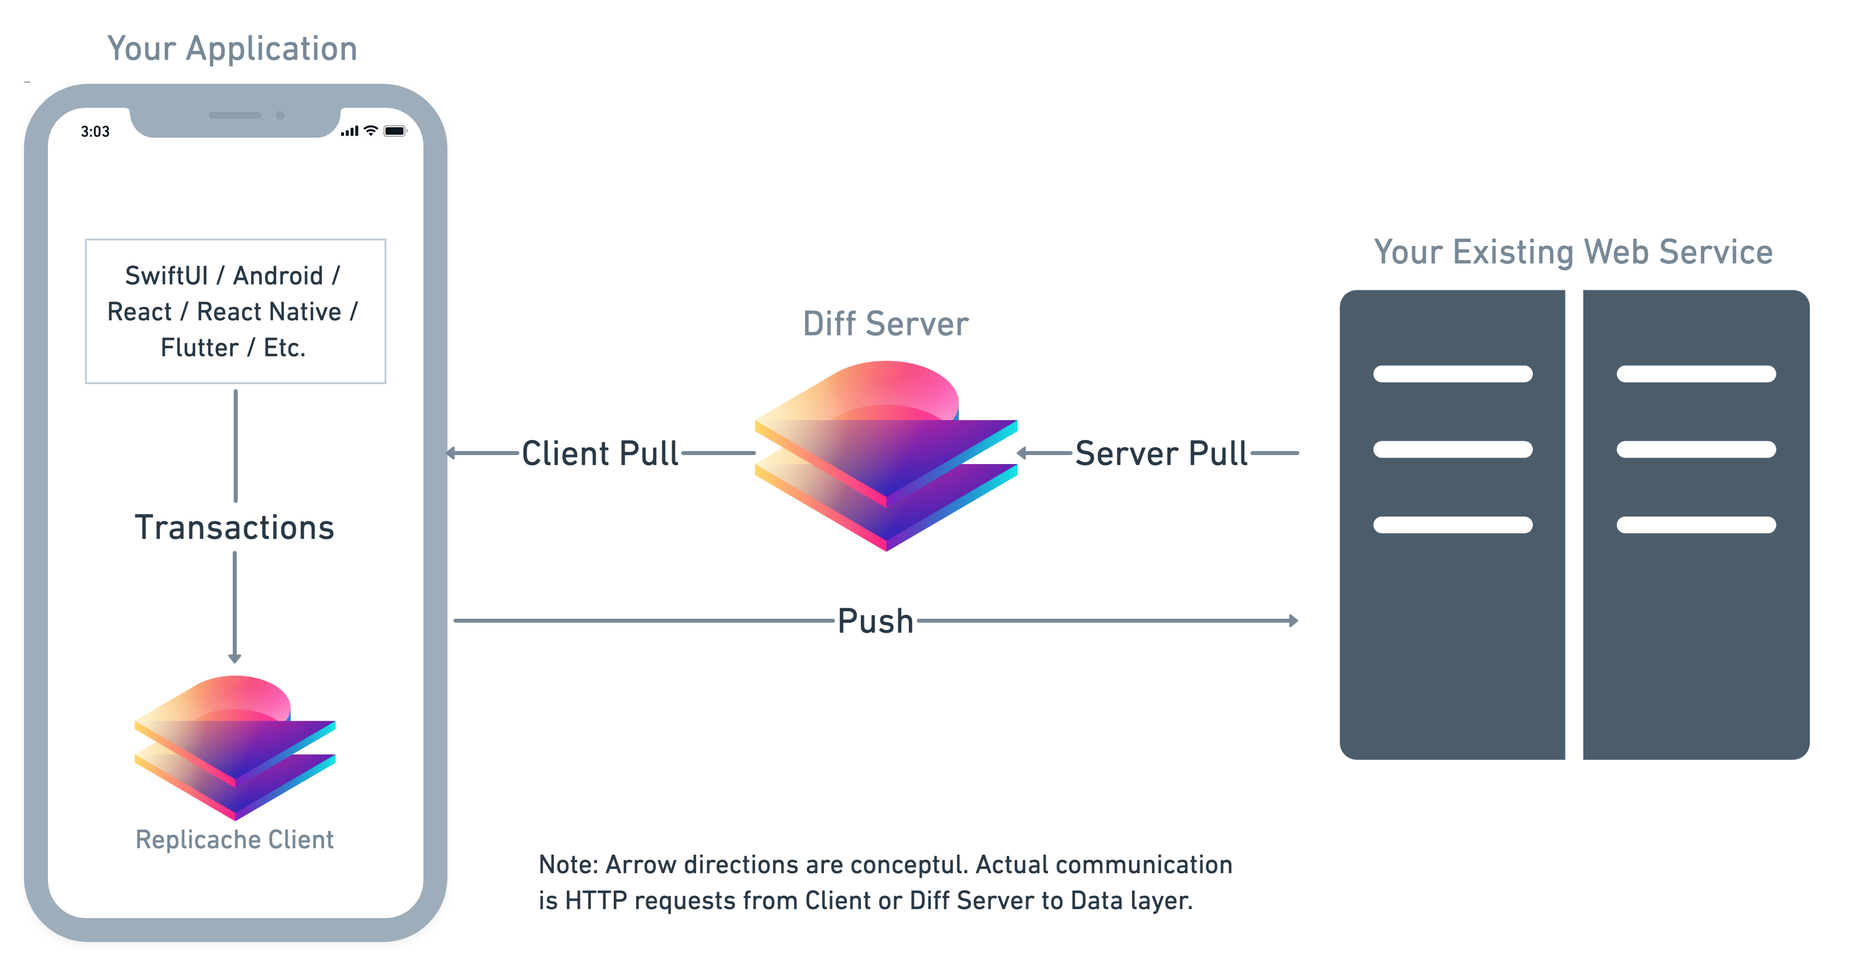
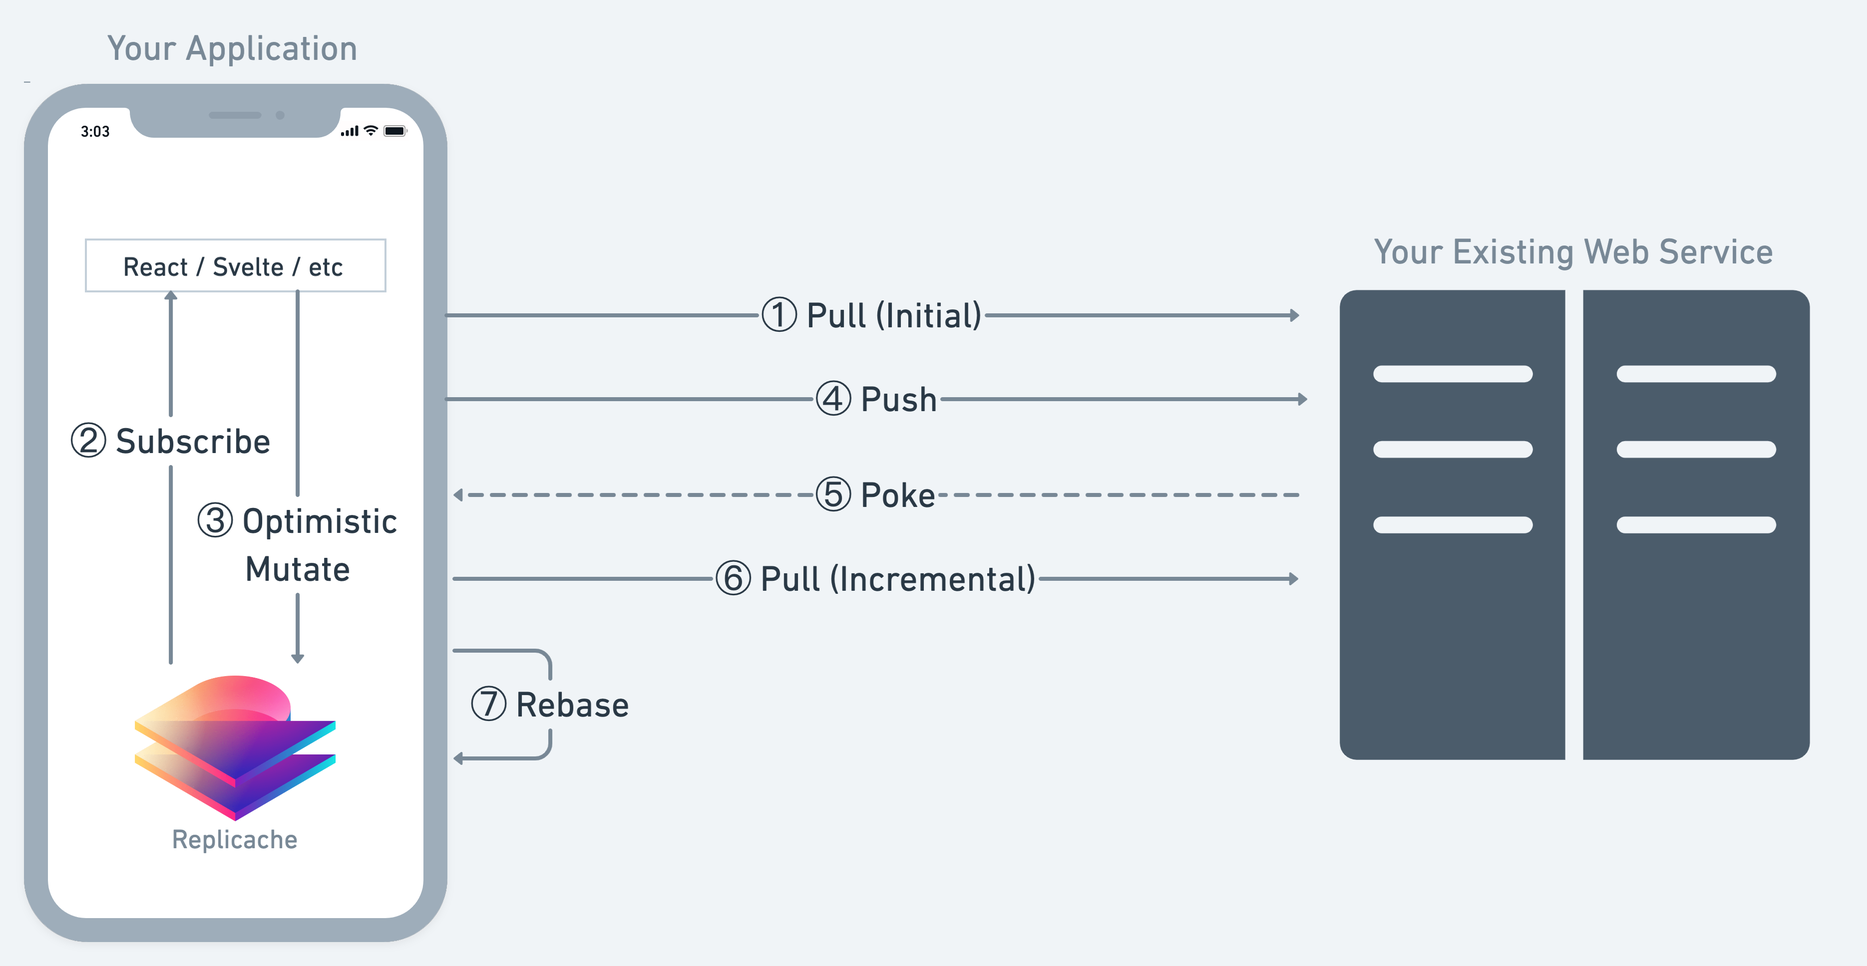
Kill diff server

diff --git a/design.md b/design.md
@@ -26,26 +26,26 @@ succeeded.
 The key features that drive Replicache's increased usability:
 
 * **Easy Integration**: Replicache runs alongside your existing application infrastructure. You keep your existing server-side stack and client-side frameworks. Replicache doesn't take ownership of data, and is not the source of truth. Its only job is to provide bidirectional sync between your clients and your servers. This makes it easy to adopt: you can try it for just a small piece of functionality, or a small slice of users, while leaving the rest of your application the same.
-* **The Client View**: To use Replicache, developers define a *client view* for each user, the data replicache keeps cached on clients of that user. Replicache keeps clients up to date with this view by periodically updating them with a minimal diff from the server. Developers don't need to worry about the minutae of getting the right changes to each client - they simply return the user's canonical data to replicache and replicache brings clients up to date with it.
+* **The Client View**: To use Replicache, developers define a *Client View*, which is the data Replicache keeps cached on a specific device. Developers must arrange to return a delta from some previous version of the Client View to the current one when requested, but developers do *not* have to worry about any local changes the client may have applied. Replicache ensures that any local mutations are correctly ordered with respect to the canonical server state.
 * **Transactional Conflict Resolution**: Conflicts are an unavoidable part of offline-first systems, but contrary to popular
 belief they don't need to be exceptionally painful. Replicache makes conflict resolution significantly easier by capturing the *intent* of changes and then asking developers to replay that intended change later. See [Conflicts](#conflicts) for more.
 * **Causal+ Consistency**: [Consistency guarantees](https://jepsen.io/consistency) make distributed systems easier to reason about and prevent confusing user-visible data anomalies. When properly integrated with your backend, Replicache provides for [Causal+ Consistency](https://jepsen.io/consistency/models/causal) across the entire system. This means that transactions are guaranteed to be applied *atomically*, in the *same order*, *across all clients*. Further, all clients will see an order of transactions that is compatible with *causal history*. Basically: all clients will end up seeing the same thing, and you're not going to have anly weirdly reordered or dropped messages. We have worked with independent Distributed Systems expert Kyle Kingsbury of Jepsen to validate these properties of our design. See [Jepsen on Replicache](https://replicache.dev/jepsen.html).
 
 # System Overview
 
-Replicache is an embedded cache that runs inside a mobile app, along with a companion web service that runs alongside existing server-side infrastructure. The piece in the mobile app is the *client*. The companion web service is called the *Diff Server*. And the existing server-side infrastructure is the *data layer*. The data layer could be as simple as a document database or could be a massive distributed system -- replicache doesn't care.
+Replicache is an embedded cache that runs inside a mobile app and synchronizes with some existing web service. In this document, we refer to the entire existing server-side stack as the *Data Layer*. The Data Layer could be as simple as a document database or could be a massive distributed system -- Replicache doesn't care.
 
 ![Diagram](./diagram.png)
 
 ## Data Model
 
-Replicache synchronizes updates to per-user *state* across an arbitrary number of clients. The state is a sorted map of key/value pairs. Keys are strings, values are JSON. The canonical state fetched from the server is also known as the *client view*. 
+Replicache synchronizes updates to per-user *state* across an arbitrary number of clients. The state is a sorted map of key/value pairs. Keys are strings, values are JSON. The canonical state fetched from the server is also known as the *Client View*. 
 
 ## The Big Picture
 
-The Replicache client maintains a local cache of the user's state against which the application runs read and write transactions (often referred to as *mutations*). Both read and write transactions run immediately against the local state and mutations are additionally queued as *pending* application on the server. Periodically the client *syncs*: pushing pending mutations to the data layer, then pulling updated state from the diff sever. Mutations flow upstream, state changes flow downstream.
+The Replicache Client maintains a local cache of the user's state against which the application runs read and write transactions (often referred to as *mutations*). Both read and write transactions run immediately against the local state and mutations are additionally queued as *pending* application on the server. Periodically the client *syncs*: pushing pending mutations to the Data Layer, then pulling updated state from it. Mutations flow upstream, state changes flow downstream.
 
-A key feature that makes Replicache flexible and easy to adopt is that Replicache does not take ownership of the data. The data layer owns the data and is the source of truth. Replicache runs alongside an existing data layer and requires only minimal changes to it. Processes that Replicache knows nothing about can mutate state in the data layer and Replicache clients will converge on the data layer's canonical state and correctly apply client changes on top of it.
+A key feature that makes Replicache flexible and easy to adopt is that Replicache does not take ownership of the data. The Data Layer owns the data, is the source of truth, and requires only minimal changes. Processes that Replicache knows nothing about can mutate state in the Data Layer and Replicache Clients will converge on the Data Layer's canonical state and correctly apply client changes on top of it.
 
 # Detailed Design
 
@@ -54,7 +54,7 @@ A key feature that makes Replicache flexible and easy to adopt is that Replicach
 The Replicache Client maintains:
 
 * The ClientID, a unique identifier for this client
-* The LastMutationID. Write transactions originating on a client are uniquely identified and ordered by an ordinal which increases sequentially. This ordinal serves as an idempotency token for the data layer, and is used to determine which transactions the server has applied.
+* The LastMutationID. Write transactions originating on a client are uniquely identified and ordered by an ordinal which increases sequentially. This ordinal serves as an idempotency token for the Data Layer, and is used to determine which transactions the server has applied.
 * A versioned, transactional, deterministically iterable key/value store that keeps the user's state
   * Versioned meaning that we can go back to any previous version 
   * Versioned also meaning that we can _fork_ from a version, apply many transactions, then reveal this new version atomically (like git branch and merge)
@@ -64,13 +64,11 @@ Additionally, in memory, user code provides a mapping of named *mutators*. A mut
 
 ### Commits
 
-Each version of the user's state is represented as a _commit_ which has:
-* An immutable view of the user's state
-* A *Checksum* over the state
+Each version of the user's state is represented as a _commit_ which has an immutable view of the user's state.
 
 Commits come in two flavors, those from the client and those from the server:
-* *Local commits* represent a change made by a mutation executing locally against the client's cache. The set of local commits that are not yet known to be applied in the data layer are known as *pending* commits. Local commits include the *mutator name* and *arguments* that caused them, so that the mutator may be replayed later on top of new snapshot commits from the server if necessary.
-* *Snapshot commits* represent a state update received from the server. They carry a *Server State ID* uniquely identifying this version of the user's state.
+* *Local commits* represent a change made by a mutation executing locally against the client's cache. The set of local commits that are not yet known to be applied in the Data Layer are known as *pending* commits. Local commits include the *mutator name* and *arguments* that caused them, so that the mutator may be replayed later on top of new snapshot commits from the server if necessary.
+* *Snapshot commits* represent a state update received from the server. They carry a cookie*, which the Data Layer can used to calculate the delta for the next pull.
 
 ### API Sketch
 
@@ -111,33 +109,24 @@ interface WriteTransaction extends ReadTransaction {
 };
 ```
 
-## Diff Server
-
-The Diff Server is a multitenant distributed service that calculates state updates for clients in the form of deltas. The Diff Server is an optimization that reduces downstream bandwidth; conceptually it is not required, though practically it is.
-
-For each user the Diff Server maintains a *history* of previous states. Specifically it keeps the state, ServerStateID, and checksum. Note that this history need not be complete; missing entries only affect sync performance, not correctness. 
-
-The Diff Server provides one interface:
-* *Pull*: accepts a ServerStateID from the client indicating the snapshot state against which local transactions are running. The Diff Server pulls new state for the client from the client view of the data layer, computes the delta from what the client currently has, and returns it (if any). 
-
 ## Data Layer
 
-The data layer is a standard REST/GraphQL web service. In order to integrate Replicache the data layer must:
+The Data Layer is a standard REST/GraphQL web service. In order to integrate Replicache the Data Layer must:
 1. maintain a mapping from ClientID to LastMutationID (used by Push and Pull)
-1. implement an interface to fetch a user's Client View, along with the user's LastMutationID (used by Pull)
+1. implement an interface to fetch updates to a user's Client View, along with the user's LastMutationID (used by Pull)
 1. implement an interface to execute a batch of upstream transactions (used in Push)
 
 ### Generality
 
-As mentioned, the Data Layer could be a simple document database or a complicated distrubuted system. All Replicache cares about is that it runs trasactions and returns the user's data as json in the Client View. Beyond transactional semantics, Replicache takes no opinion on where or how the data layer stores its bits. User data might be scattered across several systems under the hood, or assembled on the fly. 
+As mentioned, the Data Layer could be a simple document database or a complicated distrubuted system. All Replicache cares about is that it runs trasactions and returns the user's data as json in the Client View. Beyond transactional semantics, Replicache takes no opinion on where or how the Data Layer stores its bits. User data might be scattered across several systems under the hood, or assembled on the fly. 
 
 # Data Flow
 
-Data flows from the client up to the Data Layer, and back down from the Data Layer to Diff Server to the Client. Mutations flow upstream while state updates flow downstream. Any of these processes can stop or stall indefinitely without affecting correctness.
+Data flows from the client up to the Data Layer, and back down from the Data Layer to the Client. Mutations flow upstream while state updates flow downstream. Any of these processes can stop or stall indefinitely without affecting correctness.
 
-The client tracks state changes in a git-like fashion. The Replicache client has a *master* branch of commits and keeps a *head* commit pointer representing the current state of the local key-value database. Transactions run serially against the state in the head commit. The head commmit can change in two ways:
+The client tracks state changes in a git-like fashion. The Replicache Client has a *master* branch of commits and keeps a *head* commit pointer representing the current state of the local key-value database. Transactions run serially against the state in the head commit. The head commmit can change in two ways:
 1. write transactions: when the app runs a transaction that changes the database, the change goes into a pending commit on top of the current head. This new pending commit becomes the new head.
-1. sync: when a new state update is pulled from the server replicache will:
+1. sync: when a new state update is pulled from the server Replicache will:
    1. fork a new branch (the *sync branch*) from the most recent snapshot
    1. add a new snapshot with the latest state update to this sync branch; the branch now has state identical to the server
    1. compute the set of mutations to replay on the sync branch by filtering all pending commits on master that have already been applied by the server. That is, find all pending commits on master whose MutationID is greater than the LastMutationID of the new snapshot.
@@ -148,13 +137,13 @@ The client tracks state changes in a git-like fashion. The Replicache client has
 
 In order to sync, the client first calls Push on the Data Layer, passing all its pending mutations. The Data Layer executes the pending mutations serially. When the Data Layer executes a mutation it sets the client's LastMutationID to match as part of the same transaction. If a MutationID is less than or equal to the client's LastMutationID or more than one more, the mutation is ignored. 
 
-The client then calls Pull on the Diff Server, passing the ServerStateID from its most recent Snapshot (as found in the most recent Snapshot commit). The Diff Server retrieves the client's LastMutationID and the *entire* state for the user from the Data Layer. The Diff Server then checks its history to see if it has a cached copy of the state the client has (as identified by ServerStateID). If so, the new and old states are diff'd and if there is a delta a new ServerStateID is assigned, the delta is returned to the client, and the new state is stored in the Diff Server's history by ServerStateID. If the server doesn't have a copy of the client's data, the full user state is returned. In all cases, the client's LastMutationID is returned. 
+The client then calls Pull on the Data Layer, passing the cookie from its most recent Snapshot (as found in the most recent Snapshot commit). The Data Layer computes and returns a delta to the Client View using the cookie, and the LastMutationID for this client.
 
-If Pull returns a state update to the client, the client applies the state update as described above: it forks from the previous snapshot commit, applies any local mutations that are still pending (those with mutation ids greater than the LastMutationID indicated in the state update), and reveals the new state by setting head of master to the end of the new branch. The client can now forget about all pending mutations that have been confirmed, that is, all pending mutations with MutationIDs than or equal to the LastMutationID of the most recent state.
+The client applies the delta from Pull as described above: it forks from the previous snapshot commit, applies any local mutations that are still pending (those with mutation ids greater than the LastMutationID indicated in the state update), and reveals the new state by setting head of master to the end of the new branch. The client can now forget about all pending mutations that have been confirmed, that is, all pending mutations with MutationIDs than or equal to the LastMutationID of the most recent state.
 
 ## Mutations outside the client
 
-There is nothing in the design that requires that changes to user data must come through Replicache. In fact we expect there is great utility in mutating the user's state outside of clients, eg in batch jobs or in response to changes in other users' clients. So long as all transactions that mutate the user's data run at a proper isolation level and leave the database in a valid state, Replicache will faithfully converge all clients to the new state. 
+There is nothing in the design that requires that changes to user data must come through Replicache. In fact we expect there is great utility in mutating the user's state outside of clients, eg in batch jobs or in response to changes in other users' clients. So long as all transactions that mutate the user's data run at a proper isolation level, leave the database in a valid state, and are correctly reflected by Pull, Replicache will faithfully converge all clients to the new state. 
 
 ## Push endpoint
 
@@ -177,22 +166,16 @@ What is the correct resolution? We can't possibly know without more information 
 
 A better strategy is to capture the *intent* of changes. Replicache embraces this idea by recording, alongside each change, the name of the function that created the change along with the arguments it was passed. Later, when we need to rebase forks, we *replay* one fork atop the other by re-running the series of transaction functions against the newest state. The transaction functions have arbitrary logic and can realize the intended change differently depending on the state they are running against.
 
-For example, a transaction that reserves an hour on a user's calendar could keep a status for the reservation in the user's data. The transaction might successfully reserve the hour when running locally for the first time, setting the status to RESERVED. Later, if still pending, the transaction might be replayed on top of a state where that hour is unavailable. In this case the transaction might update the status to UNAVAILABLE. Later during Push when played against the data layer the transaction will settle on one value or the other, and the client will converge on the value in the data layer. App code can rely on subscriptions to keep the UI correctly reflective of the reservation status, or to trigger notification of the user or some other kind of followup such trying the next available slot.
+For example, a transaction that reserves an hour on a user's calendar could keep a status for the reservation in the user's data. The transaction might successfully reserve the hour when running locally for the first time, setting the status to RESERVED. Later, if still pending, the transaction might be replayed on top of a state where that hour is unavailable. In this case the transaction might update the status to UNAVAILABLE. Later during Push when played against the Data Layer the transaction will settle on one value or the other, and the client will converge on the value in the Data Layer. App code can rely on subscriptions to keep the UI correctly reflective of the reservation status, or to trigger notification of the user or some other kind of followup such trying the next available slot.
 
 We believe the Replicache model for dealing with conflicts — to have defensively written, programmatic transaction logic that is replayed atop the latest state — leads to fewer actual conflicts in practice. Our experience is that it preserves expressiveness of the data model and is far easier to reason about than other general models for avoiding or minimizing conflicts.
 
-## Encryption
-
-It is possible for users of the Diff Server to encrypt data such that the operators of Diff Server cannot read it. Since the Client View is a key/value store, users could encrypt the values using a key that Diff Server doesn't have, but which clients and the Data Layer do.
-
-If done in a simple way, this could reduce the granularity (increase the size) of the diffs that Diff Server could produce, but there is nothing stopping users from being arbitrarily fancy with the granularity at which they encrypt data. In practice, we think a good starting point for users interested in this option is to encrypt at the value level and accept the smallish resulting increase in diff sizes.
-
 # Constraints
 
-**Data size** A primary constraint is the size of user data. In fetching all a user's data from the data layer during each pull, Replicache makes an explicit tradeoff of bandwidth for ease of implementation and integration. For this reason we are initially limiting user data to 20MB per user and recommend the Diff Server be deployed as close to the data layer as possible (e.g., in the same Availability Zone).
+**Data size** Although there is no limit to the amount of data that can be synced by Replicache, for some applications, syncing all data the user has access is impractical. For these use cases, we advise users to maintain per-client state encoding the extent of the data that should be synced. Initially the extent can be relatively small, but as the user moves through the app, the extent can be widened. For example, if the app is a game, the extent might initially be the first level. But as the user progresses through the game, the extent widens one level at a time. It is also possible to purge data from Replicache using the same mechanism, if managing max cache size is a concern.
 
 A second concern with data size is that it might be infeasible to complete large state update downloads on unreliable or slow connections. We can imagine a variety of potential solutions to this problem but for simplicity's sake we are punting on the problem for now. (The size constraint above helps here as well.)
 
-**Blobs** Any truly offline first system must have first class bidirectional support for binary assets aka blobs (eg, profile pictures). In some cases these assets should be managed transactionally along with the user's data: either you get all the data and all the blobs it references or you get none of it. In any case, there is presently no special support for blobs in replicache. Users who need blobs are advised to base64 encode them as JSON strings in the user data. We plan to address this shortcoming in the future. 
+**Blobs** Any truly offline first system must have first class bidirectional support for binary assets aka blobs (eg, profile pictures). In some cases these assets should be managed transactionally along with the user's data: either you get all the data and all the blobs it references or you get none of it. In any case, there is presently no special support for blobs in Replicache. Users who need blobs are advised to base64 encode them as JSON strings in the user data. We plan to address this shortcoming in the future. 
 
-**Duplicate transaction logic** You have to implement transactions twice, once in the mobile app and once in the data layer. Bummer. We can imagine potential solutions to this problem but it's not clear if the benefit would be worth the cost, or widely usable. It is also expected that client-side transactions will be significantly simpler as they are by nature *speculative*, having the canonical answer come from the server-side implementation.
+**Duplicate transaction logic** You have to implement transactions twice, once in the mobile app and once in the Data Layer. Bummer. We can imagine potential solutions to this problem but it's not clear if the benefit would be worth the cost, or widely usable. It is also expected that client-side transactions will be significantly simpler as they are by nature *speculative*, having the canonical answer come from the server-side implementation.
